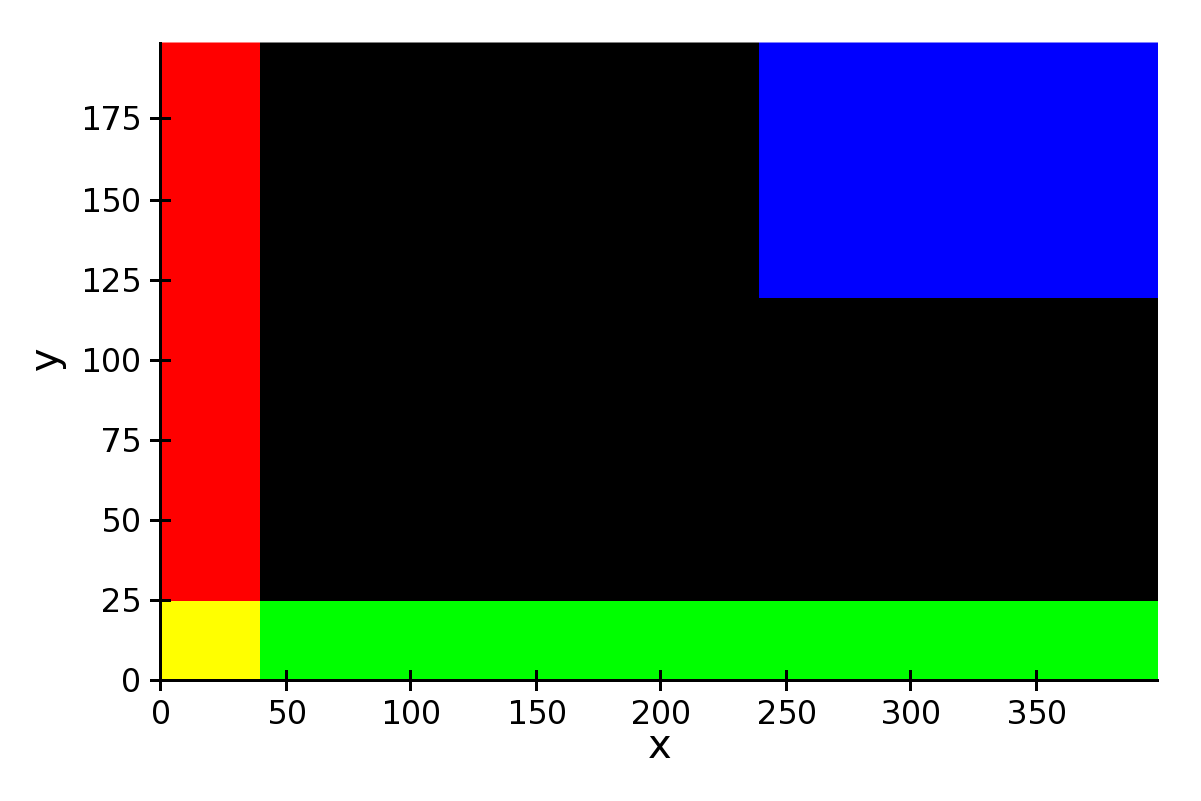
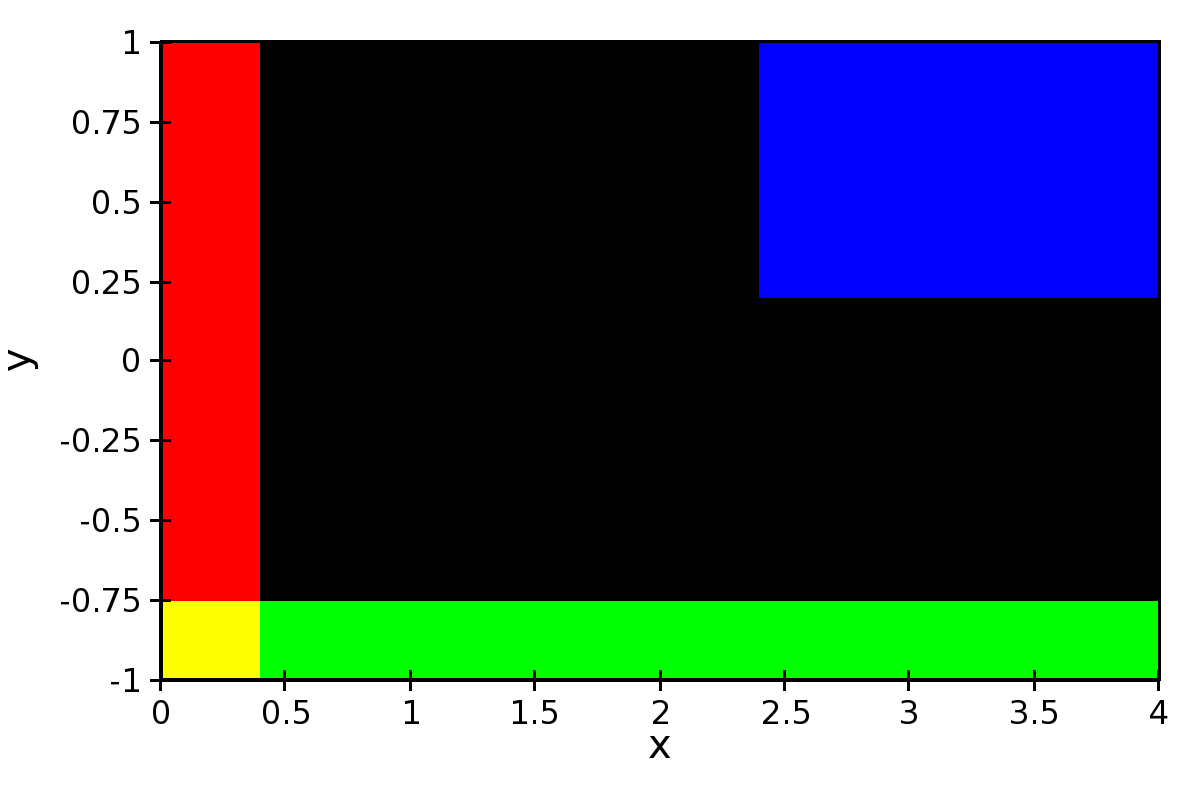
DOC: add ImagePlot and example of `fromfile`

diff --git a/examples/tutorials/user_guide/plot_types/xy_plots.py b/examples/tutorials/user_guide/plot_types/xy_plots.py
@@ -18,6 +18,7 @@ from chaco.linear_mapper import LinearMapper
 from chaco.candle_plot import CandlePlot
 from chaco.colormapped_scatterplot import ColormappedScatterPlot
 import chaco.default_colormaps as dc
+from kiva.agg.agg import Image
 
 import scipy.stats
 import numpy as np
@@ -28,6 +29,7 @@ from chaco.image_plot import ImagePlot
 from chaco.grid_data_source import GridDataSource
 from chaco.grid_mapper import GridMapper
 from chaco.image_data import ImageData
+from traits.util.resource import find_resource
 
 from plot_window import PlotWindow
 
@@ -296,10 +298,8 @@ def get_image_plot():
     image[-80:,-160:,2] += 255 # Blue square
     image[:,:,3] = 255
 
-    colormap = dc.Spectral(DataRange1D(low=image.min(), high=image.max()))
-
-    index = GridDataSource(np.arange(400), np.arange(200))
-    index_mapper = GridMapper(range=DataRange2D(low=(0,0), high=(400-1,200-1)))
+    index = GridDataSource(np.linspace(0, 4., 400), np.linspace(-1, 1., 200))
+    index_mapper = GridMapper(range=DataRange2D(low=(0,-1), high=(4.,1.)))
 
     image_source = ImageData(data=image, value_depth=4)
 
@@ -307,12 +307,36 @@ def get_image_plot():
         index=index,
         value=image_source,
         index_mapper=index_mapper,
-        value_mapper=colormap
+        **PLOT_DEFAULTS
     )
 
     add_axes(image_plot, x_label='x', y_label='y')
 
     return image_plot
+
+def get_image_from_file():
+    import os.path
+    filename = os.path.join('..', '..', '..',
+                            'demo','basic','capitol.jpg')
+    image_source = ImageData.fromfile(filename)
+
+    w, h = image_source.get_width(), image_source.get_height()
+    index = GridDataSource(np.arange(w), np.arange(h))
+    index_mapper = GridMapper(range=DataRange2D(low=(0, 0),
+                                                high=(w-1, h-1)))
+
+    image_plot = ImagePlot(
+        index=index,
+        value=image_source,
+        index_mapper=index_mapper,
+        origin='top left',
+        **PLOT_DEFAULTS
+    )
+
+    add_axes(image_plot, x_label='x', y_label='y')
+
+    return image_plot
+
 
 all_examples = {
     'line': get_line_plot_connected,
@@ -324,12 +348,13 @@ all_examples = {
     'candle': get_candle_plot,
     'errorbar': get_errorbar_plot,
     'filled_line': get_filled_line_plot,
-    'image': get_image_plot
+    'image': get_image_plot,
+    'image_from_file': get_image_from_file,
 }
 
 
 if __name__ == '__main__':
-    name = 'image'
+    name = 'image_from_file'
 
     factory_func = all_examples[name]
     plot = factory_func()

diff --git a/docs/source/user_manual/plot_types.rst b/docs/source/user_manual/plot_types.rst
@@ -268,14 +268,48 @@ Image Plots
 =======================
 
 Plot image data, provided as RGB or RGBA color information. If you need to
-plot a scalar 2D array as an image, use a :ref:`colormapped scalar plot
+plot a 2D array as an image, use a :ref:`colormapped scalar plot
 <colormapped_scalar_plot>`
 
-loading from file
+In an :class:`~chaco.base_2d_plot.ImagePlot`, the :attr:`index` attribute
+corresponds to the the data coordinates of the pixels, often a
+:class:`~chaco.grid_data_source.GridDataSource`). The
+:attr:`index_mapper` maps the data coordinates to
+screen coordinates (typically using
+a :class:`~chaco.grid_mapper.GridMapper`). The `value` is the image itself,
+wrapped into the data source class :class:`~chaco.image_data.ImageData`.
 
 .. image:: images/user_guide/image_plot.png
   :width: 500px
 
+A typical use case is to display an image loaded from a file.
+The preferred way to do this is using the factory method
+:meth:`~chaco.image_data.ImageData.from_file` of the class
+:class:`~chaco.image_data.ImageData`. For example: ::
+
+    image_source = ImageData.fromfile('capitol.jpg')
+
+    w, h = image_source.get_width(), image_source.get_height()
+    index = GridDataSource(np.arange(w), np.arange(h))
+    index_mapper = GridMapper(range=DataRange2D(low=(0, 0),
+                                                high=(w-1, h-1)))
+
+    image_plot = ImagePlot(
+        index=index,
+        value=image_source,
+        index_mapper=index_mapper,
+        origin='top left',
+        **PLOT_DEFAULTS
+    )
+
+    add_axes(image_plot, x_label='x', y_label='y')
+
+    return image_plot
+
+The code above displays this plot:
+
+.. image:: images/user_guide/image_from_file_plot.png
+  :width: 500px
 
 .. _colormapped_scalar_plot:
 
